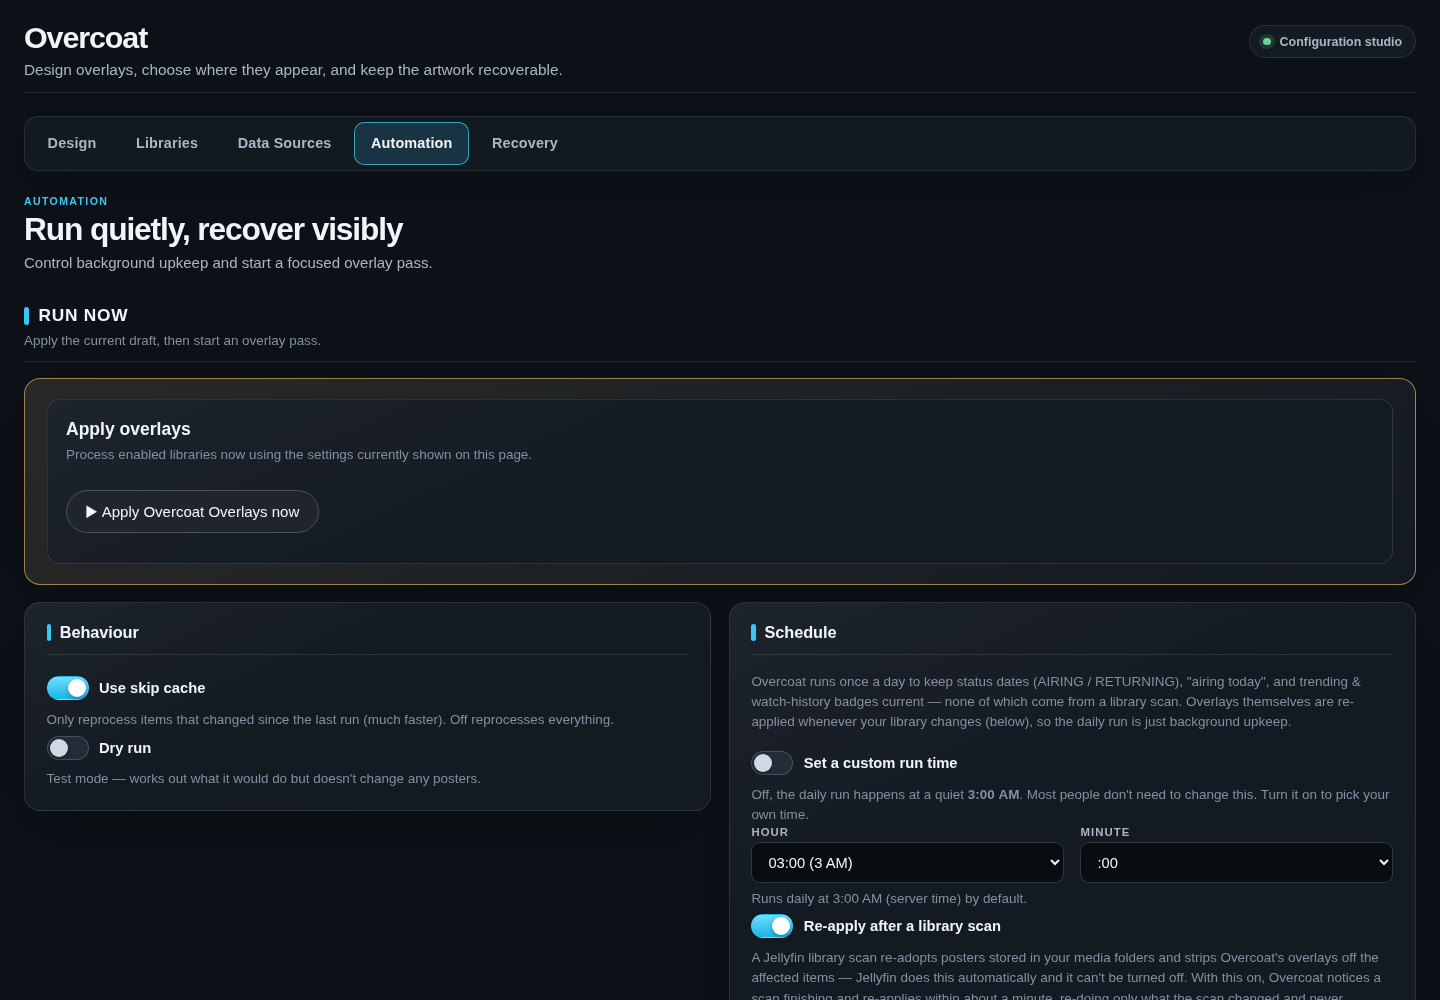
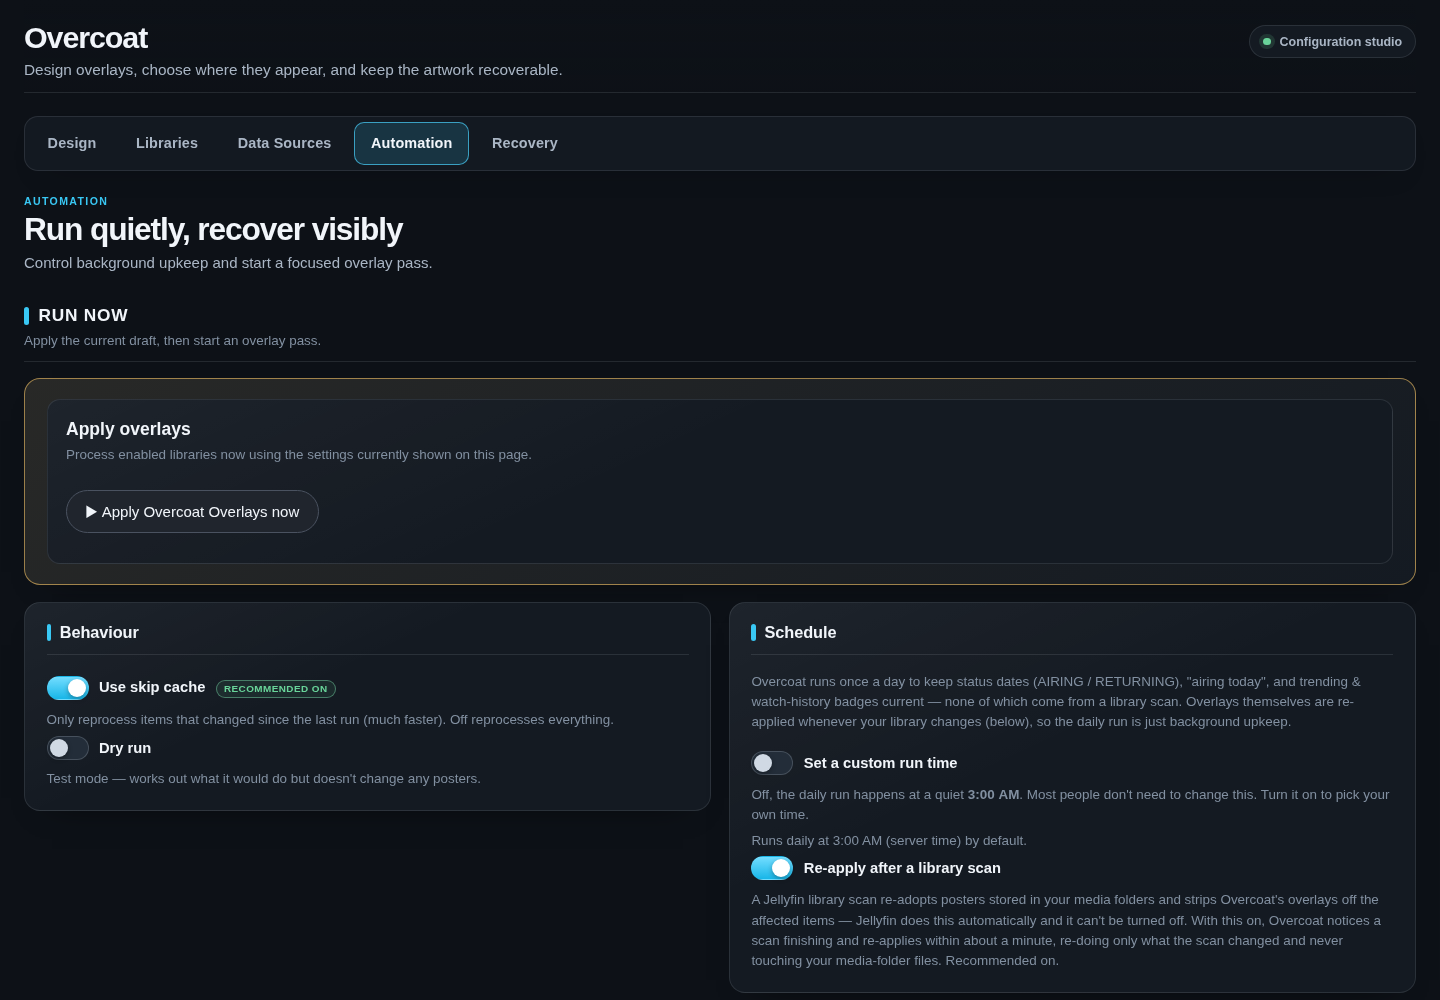
Polish library automation and recovery controls

Changed region(s): [[0.5, 0.837, 0.9688, 1.0], [0.0625, 0.682, 0.2188, 0.713], [0.75, 0.806, 0.7812, 0.868]]

diff --git a/Jellyfin.Plugin.Overcoat/Configuration/configPage.css b/Jellyfin.Plugin.Overcoat/Configuration/configPage.css
@@ -145,6 +145,14 @@
     border-color: color-mix(in srgb, var(--ov-warning) 56%, var(--ov-border));
     background: linear-gradient(145deg, color-mix(in srgb, var(--ov-warning) 9%, var(--ov-surface)), var(--ov-surface));
 }
+#OvercoatConfigPage .ovcLibraryIntro {
+    display: flex; align-items: flex-start; gap: .8rem; padding: .95rem 1.1rem;
+    border: 1px solid color-mix(in srgb, var(--ov-warning) 64%, var(--ov-border));
+    border-radius: 14px;
+}
+#OvercoatConfigPage .ovcLibraryIntro > .ovcIcon { flex: 0 0 auto; margin-top: .08rem; color: var(--ov-warning); }
+#OvercoatConfigPage .ovcLibraryIntro strong { display: block; color: color-mix(in srgb, var(--ov-warning) 84%, var(--ov-text)); font-size: 1rem; }
+#OvercoatConfigPage .ovcLibraryIntro div > span { display: block; margin-top: .22rem; color: var(--ov-muted); font-size: .84rem; line-height: 1.45; }
 #OvercoatConfigPage details.ovcCard { padding: 0; overflow: clip; }
 #OvercoatConfigPage details.ovcCard > summary {
     display: flex; align-items: center; gap: .55rem; min-height: 3.25rem;
@@ -286,6 +294,7 @@
     margin: -1px !important; overflow: hidden !important; clip: rect(0, 0, 0, 0) !important; white-space: nowrap !important;
 }
 #OvercoatConfigPage .ovcRow { display: grid; grid-template-columns: repeat(2, minmax(0, 1fr)); gap: 1rem; }
+#OvercoatConfigPage #ScheduleTimeRow[hidden] { display: none !important; }
 
 /* Segmented controls and sliders */
 #OvercoatConfigPage .ovcSeg { display: flex; gap: .22rem; padding: .24rem; background: var(--ov-canvas); border: 1px solid var(--ov-border-strong); border-radius: 11px; }
@@ -364,7 +373,8 @@
     margin: .7rem 0; padding: .68rem 1.15rem !important; border-radius: 999px !important;
 }
 #OvercoatConfigPage #OvercoatRunNow,
-#OvercoatConfigPage #OvercoatRestore { border-radius: 999px !important; }
+#OvercoatConfigPage #OvercoatRestore,
+#OvercoatConfigPage #OvercoatVaultRefresh { border-radius: 999px !important; padding-inline: 1.15rem !important; }
 #OvercoatConfigPage #OvercoatUseWideCardsAll,
 #OvercoatConfigPage #OvercoatUseEpisodeStillsAll { border-radius: 999px !important; padding-inline: 1.15rem !important; }
 #OvercoatConfigPage .ovcDryRunBanner {
@@ -387,6 +397,12 @@
 #OvercoatConfigPage .ovcSecretRow { display: flex; align-items: flex-end; gap: .7rem; }
 #OvercoatConfigPage .ovcSecretRow .inputContainer { flex: 1; min-width: 0; }
 #OvercoatConfigPage .ovcWip { display: inline-block; margin-left: .35rem; padding: .14rem .5rem; border-radius: 99px; background: var(--ov-warning); color: #281c00; font-size: .64rem; font-weight: 850; letter-spacing: .05em; text-transform: uppercase; }
+#OvercoatConfigPage .ovcRecommended {
+    display: inline-flex; align-items: center; margin-left: .38rem; padding: .12rem .46rem;
+    border: 1px solid color-mix(in srgb, var(--ov-success) 42%, var(--ov-border)); border-radius: 99px;
+    color: var(--ov-success); background: color-mix(in srgb, var(--ov-success) 9%, transparent);
+    font-size: .62rem; font-weight: 850; letter-spacing: .045em; line-height: 1.2; text-transform: uppercase;
+}
 #OvercoatConfigPage .ovcRecoveryHelp { margin-top: .5rem; font-size: .9rem; }
 #OvercoatConfigPage .ovcRecoveryHelp summary { cursor: pointer; color: var(--ov-muted); }
 #OvercoatConfigPage .ovcRecoveryHelp ul { margin: .6rem 0 0; padding-left: 1.2rem; line-height: 1.55; }

diff --git a/tools/Showcase/capture-settings.js b/tools/Showcase/capture-settings.js
@@ -131,7 +131,7 @@ const out = path.resolve(process.argv[2] || path.join(root, 'assets'));
       badgeOptions: [...document.querySelectorAll('#BadgeSide option')].map(x=>x.value),
       details: document.querySelectorAll('[data-panel="design"] details.ovcCard').length,
       tabTops: [...document.querySelectorAll('.ovcTab')].map(x=>Math.round(x.getBoundingClientRect().top)),
-      actionRadii: ['OvercoatRunNow','OvercoatRestore'].map(id=>parseFloat(getComputedStyle(document.querySelector('#'+id)).borderRadius)),
+      actionRadii: ['OvercoatRunNow','OvercoatRestore','OvercoatVaultRefresh'].map(id=>parseFloat(getComputedStyle(document.querySelector('#'+id)).borderRadius)),
       libraryActionRadii: ['OvercoatUseWideCardsAll','OvercoatUseEpisodeStillsAll'].map(id=>parseFloat(getComputedStyle(document.querySelector('#'+id)).borderRadius)),
       runTop: document.querySelector('#OvercoatRunRestoreCard').getBoundingClientRect().top,
       behaviourTop: document.querySelector('[data-panel="automation"] .ovcCard:not(#OvercoatRunRestoreCard)').getBoundingClientRect().top,
@@ -145,11 +145,17 @@ const out = path.resolve(process.argv[2] || path.join(root, 'assets'));
     if (computed.badgeOptions.join(',') !== 'left') throw new Error('Badge placement exposes an unsupported side.');
     if (computed.details < 3) throw new Error('Advanced banner controls are not accordions.');
     if (new Set(computed.tabTops).size !== 1) throw new Error('Purpose navigation is not aligned across the top.');
-    if (computed.actionRadii.some(x=>x < 20)) throw new Error(`Run/Restore actions are not rounded (${computed.actionRadii.join(', ')}).`);
+    if (computed.actionRadii.some(x=>x < 20)) throw new Error(`Run/Restore/Recheck actions are not rounded (${computed.actionRadii.join(', ')}).`);
     if (computed.libraryActionRadii.some(x=>x < 20)) throw new Error(`Library artwork actions are not rounded (${computed.libraryActionRadii.join(', ')}).`);
     if (computed.runTop >= computed.behaviourTop) throw new Error('Run Now is not the first Automation section.');
     if (new Set(computed.statusSwitches).size !== 1) throw new Error(`Status visibility switches do not share one shape (${computed.statusSwitches.join(', ')}).`);
     if (await page.locator('#TrendingTimeWindow option[value="month"]').count() !== 1) throw new Error('Monthly TMDB trending choice is missing.');
+    const customSchedule = page.locator('#CustomScheduleTime');
+    if (await customSchedule.isChecked()) await customSchedule.click();
+    if (await page.locator('#ScheduleTimeRow').isVisible()) throw new Error('Custom schedule fields are visible while custom time is off.');
+    await customSchedule.click();
+    if (!await page.locator('#ScheduleTimeRow').isVisible()) throw new Error('Custom schedule fields did not appear when custom time was enabled.');
+    await customSchedule.click();
     const dryRun = page.locator('#DryRun');
     if (await dryRun.isChecked()) await dryRun.click();
     if (await page.locator('#OvercoatDryRunBanner').isVisible()) throw new Error('Dry Run notice stayed visible while Dry Run was off.');

diff --git a/scripts/check_config_page.js b/scripts/check_config_page.js
@@ -78,6 +78,8 @@ const requiredPatterns = [
   ['design surface switch exists', /data-surface="design"[\s\S]*data-surface="wide"/],
   ['explicit discard action exists', /id="OvercoatDiscard"/],
   ['Dry Run notice exists', /id="OvercoatDryRunBanner"[^>]*role="status"/],
+  ['skip cache shows its recommended state', /id="CacheEnabled"[\s\S]*class="ovcRecommended">Recommended on/],
+  ['Libraries guidance is a compact caution banner', /class="ovcLibraryIntro ovcCaution ovcWide"[^>]*role="note"/],
   ['session draft persistence exists', /sessionStorage\.setItem\(draftKey/],
   ['full form serialization exists', /config\.Libraries\s*=\s*collectLibraries\(\)/],
   ['segmented controls expose radio state', /setAttribute\('aria-checked'/],
@@ -118,8 +120,9 @@ const cssPatterns = [
   ['plugin overflow is corrected', /overflow:\s*visible\s*!important/],
   ['desktop preview is sticky', /\.ovcBannerPreview\s*\{[^}]*position:\s*sticky/],
   ['navigation stays in a top rail', /\.ovcTabs\s*\{[\s\S]*position:\s*sticky;[\s\S]*flex-direction:\s*row/],
-  ['operation buttons stay rounded', /#OvercoatRunNow,[\s\S]*#OvercoatRestore\s*\{[^}]*border-radius:\s*999px\s*!important/],
+  ['operation buttons stay rounded', /#OvercoatRunNow,[\s\S]*#OvercoatRestore,[\s\S]*#OvercoatVaultRefresh\s*\{[^}]*border-radius:\s*999px\s*!important/],
   ['library artwork buttons stay rounded', /#OvercoatUseWideCardsAll,[\s\S]*#OvercoatUseEpisodeStillsAll\s*\{[^}]*border-radius:\s*999px\s*!important/],
+  ['custom schedule fields respect their hidden state', /#ScheduleTimeRow\[hidden\]\s*\{[^}]*display:\s*none\s*!important/],
   ['Quick Look buttons resist Jellyfin full-width button styles', /\.ovcPreset\s*\{[^}]*width:\s*auto\s*!important[^}]*max-width:\s*8rem/],
   ['studio stacks below 1100px', /@media\s*\(max-width:\s*1099px\)/],
   ['responsive cards use a bounded minimum', /minmax\(min\(100%,\s*440px\)\s*,\s*1fr\)/],

diff --git a/Jellyfin.Plugin.Overcoat/Configuration/configPage.html b/Jellyfin.Plugin.Overcoat/Configuration/configPage.html
@@ -492,7 +492,10 @@
 
                 <!-- ===================== LIBRARIES ===================== -->
                 <div class="ovcPanel" data-panel="libraries">
-                    <div class="ovcPageIntro ovcWide"><span class="ovcEyebrow">Libraries</span><h2>Choose where Overcoat works</h2><p>Enable only the surfaces and signals each library should receive.</p></div>
+                    <div class="ovcLibraryIntro ovcCaution ovcWide" role="note">
+                        <span class="ovcIcon" aria-hidden="true">tips_and_updates</span>
+                        <div><strong>Choose where Overcoat works</strong><span>Enable a library, then choose its banners, wide cards, and badges. Advanced targeting below can limit or exclude individual titles.</span></div>
+                    </div>
                     <div class="ovcCard ovcWide">
                         <h3>Next Up &amp; Continue Watching artwork</h3>
                         <p class="fieldDescription">
@@ -537,7 +540,7 @@
                     <div class="ovcCard">
                         <h3>Behaviour</h3>
                         <div class="ovcCheck">
-                            <label class="checkboxContainer"><input is="emby-checkbox" type="checkbox" id="CacheEnabled" /><span>Use skip cache</span></label>
+                            <label class="checkboxContainer"><input is="emby-checkbox" type="checkbox" id="CacheEnabled" /><span>Use skip cache <span class="ovcRecommended">Recommended on</span></span></label>
                             <div class="fieldDescription">Only reprocess items that changed since the last run (much faster). Off reprocesses everything.</div>
                         </div>
                         <div class="ovcCheck">

diff --git a/CHANGELOG.md b/CHANGELOG.md
@@ -14,6 +14,15 @@ All notable changes to Overcoat are documented here. Format follows
   `0.60×` on Posters or Wide Cards, matching the full-width treatment instead of forcing the
   oversized `1.00×` default. Manually enabling Full-width band on another look does not change its
   text scale.
+- **Library selection guidance is easier to scan.** “Choose where Overcoat works” is now a compact
+  yellow banner explaining library enablement and per-title targeting without a large introductory
+  text block.
+- **Custom schedule fields stay out of the way until requested.** Hour and minute appear only while
+  “Set a custom run time” is enabled; the default 3:00 AM summary remains visible otherwise.
+- **Skip cache now carries a recommendation.** A compact “Recommended on” badge beside the setting
+  makes the faster normal operating mode clear without adding more helper text.
+- **Recovery Recheck matches the action system.** The vault refresh control now uses the same
+  rounded pill treatment as Apply Overcoat and Restore Originals.
 
 ## [0.9.0-beta.2] — 2026-07-24
 
